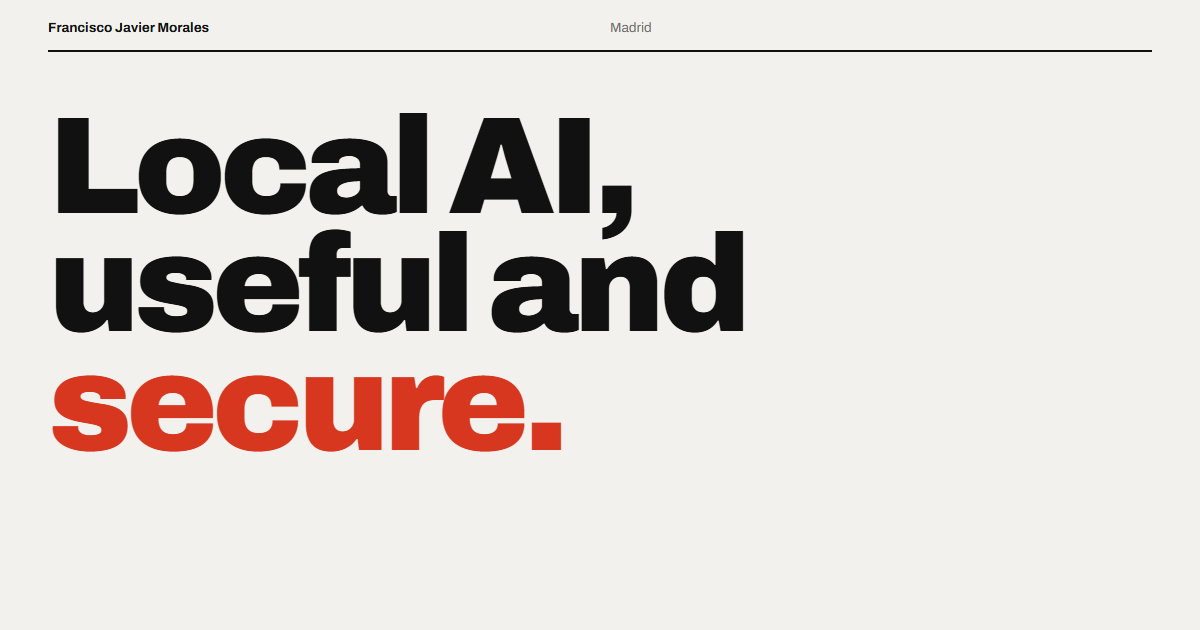
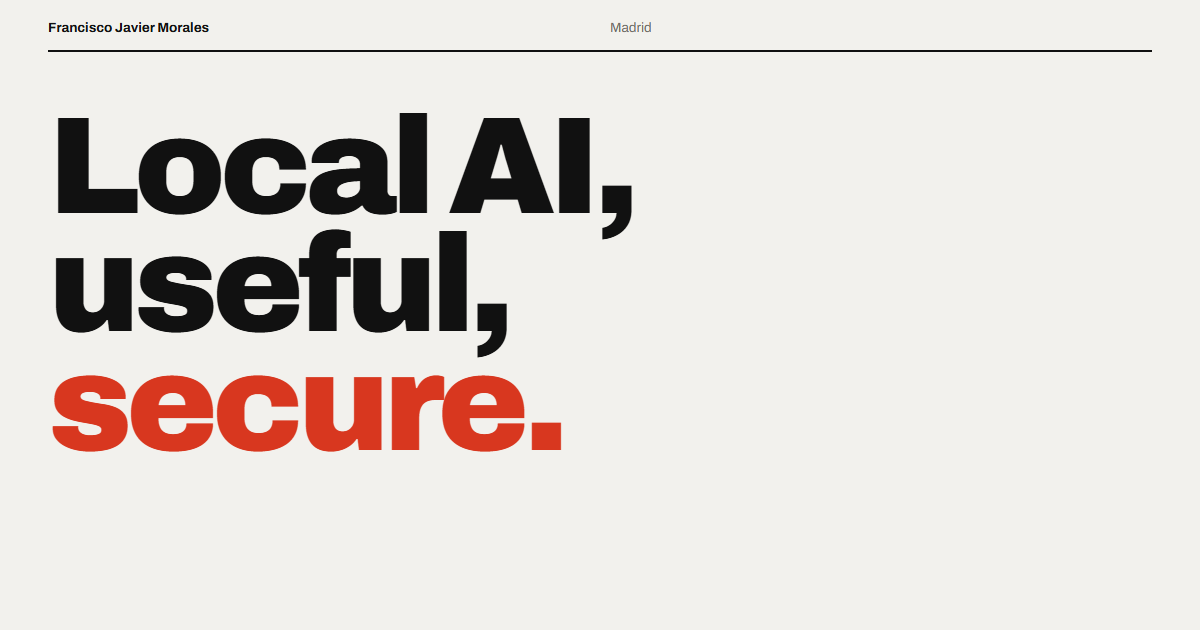
copy: «IA Local» y «Local AI, useful, secure.» en el titular y la imagen para compartir

Changed region(s): [[0.37, 0.3619, 0.6167, 0.573]]

diff --git a/index.html b/index.html
@@ -29,7 +29,7 @@
   </div>
 
   <header class="hero grid">
-    <h1><span lang="en">Local AI,<br>useful and<br><em>secure.</em></span><span lang="es">IA local,<br>útil y<br><em>segura.</em></span></h1>
+    <h1><span lang="en">Local AI,<br>useful,<br><em>secure.</em></span><span lang="es">IA Local,<br>útil y<br><em>segura.</em></span></h1>
     <p class="intro">
       <span lang="en">Researcher in artificial intelligence and cyberintelligence. The rest of the time I build things I believe are worth having.</span>
       <span lang="es">Investigador en inteligencia artificial y ciberinteligencia. El resto del tiempo hago cosas que creo que aportan valor.</span>

diff --git a/tools/og.html b/tools/og.html
@@ -10,7 +10,7 @@
 <div class="wrap">
   <div class="bar"><div class="n">Francisco Javier Morales</div><div class="r">Madrid</div></div>
   <header class="hero grid" style="padding-top:56px">
-    <h1 style="animation:none"><span lang="en">Local AI,<br>useful and<br><em>secure.</em></span></h1>
+    <h1 style="animation:none"><span lang="en">Local AI,<br>useful,<br><em>secure.</em></span></h1>
   </header>
 </div>
 </body>

diff --git a/docs/superpowers/specs/2026-10-18-personal-site-design.md b/docs/superpowers/specs/2026-10-18-personal-site-design.md
@@ -50,7 +50,7 @@ Lo que la hace suya:
 | Bloque | Contenido |
 |---|---|
 | **Barra** | Nombre a la izquierda, «Madrid» y el selector EN / ES a la derecha. Debajo, un filete negro de 2 px |
-| **Titular** | «Local AI, useful and *secure.*» / «IA local, útil y *segura.*», en tres líneas y con la última palabra en rojo |
+| **Titular** | «Local AI, useful, *secure.*» / «IA Local, útil y *segura.*», en tres líneas y con la última palabra en rojo |
 | **Entradilla** | «Researcher in artificial intelligence and cyberintelligence. The rest of the time I build things I believe are worth having.» / «Investigador en inteligencia artificial y ciberinteligencia. El resto del tiempo hago cosas que creo que aportan valor.» |
 | **01 Now / Ahora** | Tres frases grandes y paralelas (ver abajo) |
 | **02 Things I made / Cosas que he hecho** | paper-repo, Montepío y QRated |
